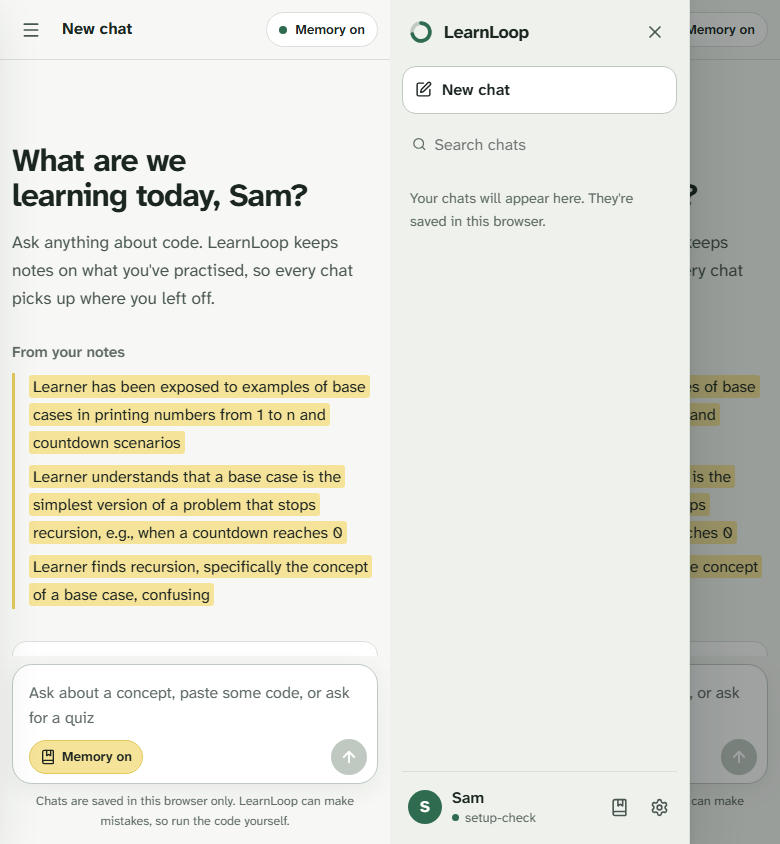
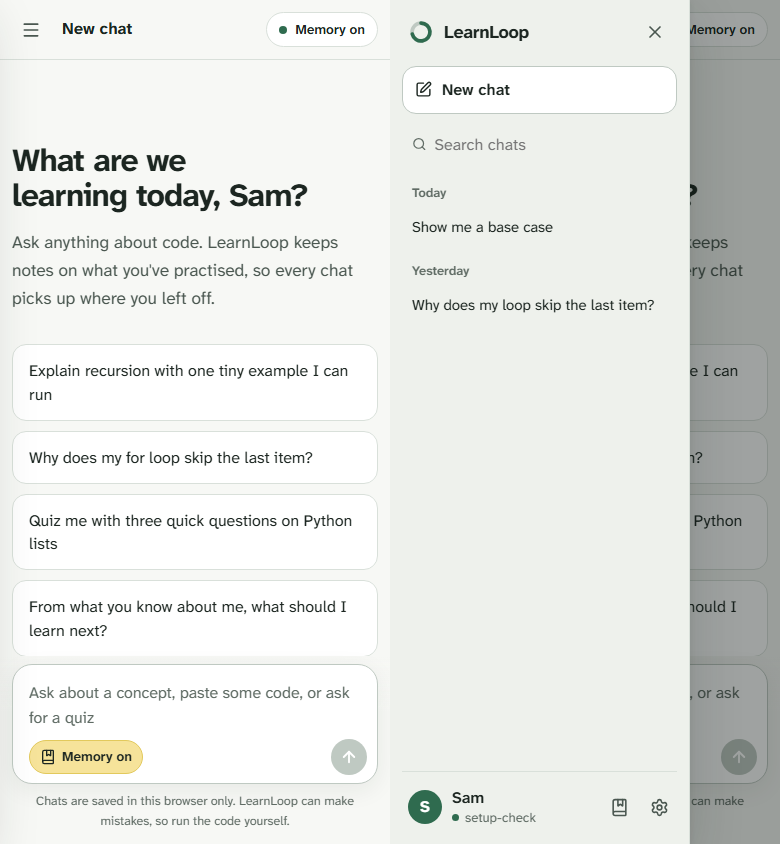
Remove notes from the welcome screen

diff --git a/frontend/src/components/ChatView.tsx b/frontend/src/components/ChatView.tsx
@@ -1,10 +1,9 @@
-import { useEffect, useRef, useState } from "react";
+import { useEffect, useRef } from "react";
 import type { RefObject } from "react";
 import { Menu, PanelLeftOpen, SquarePen } from "lucide-react";
-import { api } from "../lib/api";
 import { useAppState } from "../lib/AppState";
 import type { MemoryStatus } from "../lib/memoryStatus";
-import type { MemoryNote, Message } from "../lib/types";
+import type { Message } from "../lib/types";
 import { Composer } from "./Composer";
 import { EmptyState } from "./EmptyState";
 import { MessageItem } from "./MessageItem";
@@ -33,7 +32,6 @@ export function ChatView({
   const { settings } = state;
   const messages = activeConversation?.messages ?? [];
   const pendingReply = messages.find((m) => m.status === "pending");
-  const notes = useRecentNotes(settings.learnerId, messages.length === 0 && memory.tone === "on");
 
   return (
     <main className={styles.main}>
@@ -64,7 +62,7 @@ export function ChatView({
       {messages.length === 0 ? (
         <div className={styles.scroll}>
           <div className={styles.column}>
-            <EmptyState name={settings.name} notes={notes} onPick={send} />
+            <EmptyState name={settings.name} onPick={send} />
           </div>
         </div>
       ) : (
@@ -128,21 +126,4 @@ function MessageList({
       </div>
     </div>
   );
-}
-
-/** Loads a few remembered facts for the welcome screen. Silent on failure: it's a bonus, not a feature. */
-function useRecentNotes(learnerId: string, enabled: boolean): MemoryNote[] {
-  const [notes, setNotes] = useState<MemoryNote[]>([]);
-  useEffect(() => {
-    if (!enabled) return;
-    let cancelled = false;
-    api
-      .memories(learnerId)
-      .then((all) => !cancelled && setNotes(all.slice(0, 3)))
-      .catch(() => !cancelled && setNotes([]));
-    return () => {
-      cancelled = true;
-    };
-  }, [learnerId, enabled]);
-  return enabled ? notes : [];
 }

diff --git a/frontend/src/components/EmptyState.tsx b/frontend/src/components/EmptyState.tsx
@@ -1,4 +1,3 @@
-import type { MemoryNote } from "../lib/types";
 import styles from "./EmptyState.module.css";
 
 const STARTERS = [
@@ -10,12 +9,10 @@ const STARTERS = [
 
 interface Props {
   name: string;
-  /** A few things LearnLoop already remembers, shown so a new chat doesn't start from zero. */
-  notes: MemoryNote[];
   onPick: (prompt: string) => void;
 }
 
-export function EmptyState({ name, notes, onPick }: Props) {
+export function EmptyState({ name, onPick }: Props) {
   const firstName = name.trim().split(/\s+/)[0];
   return (
     <div className={styles.empty}>
@@ -26,21 +23,6 @@ export function EmptyState({ name, notes, onPick }: Props) {
         Ask anything about code. LearnLoop keeps notes on what you&apos;ve practised, so every chat picks up where you
         left off.
       </p>
-
-      {notes.length > 0 && (
-        <section className={styles.notes} aria-labelledby="recent-notes">
-          <h3 id="recent-notes" className={styles.notesTitle}>
-            From your notes
-          </h3>
-          <ul>
-            {notes.map((note, index) => (
-              <li key={index}>
-                <mark>{note.text}</mark>
-              </li>
-            ))}
-          </ul>
-        </section>
-      )}
 
       <ul className={styles.starters} aria-label="Ideas to start with">
         {STARTERS.map((prompt) => (

diff --git a/frontend/src/components/EmptyState.module.css b/frontend/src/components/EmptyState.module.css
@@ -22,37 +22,6 @@
   font-size: 1.08rem;
 }
 
-.notes {
-  margin-top: 28px;
-}
-
-.notesTitle {
-  margin: 0 0 8px;
-  color: var(--ink-3);
-  font-size: 0.95rem;
-  font-weight: 600;
-}
-
-.notes ul {
-  display: flex;
-  flex-direction: column;
-  gap: 6px;
-  margin: 0;
-  padding: 0 0 0 14px;
-  border-left: 3px solid var(--highlight-edge);
-  list-style: none;
-}
-
-.notes mark {
-  padding: 1px 4px;
-  border-radius: 3px;
-  background: var(--highlight);
-  color: var(--ink);
-  line-height: 1.75;
-  box-decoration-break: clone;
-  -webkit-box-decoration-break: clone;
-}
-
 .starters {
   display: grid;
   grid-template-columns: repeat(2, minmax(0, 1fr));

diff --git a/frontend/src/test/setup.ts b/frontend/src/test/setup.ts
@@ -3,8 +3,9 @@ import "@testing-library/jest-dom/vitest";
 import { afterEach } from "vitest";
 import { cleanup, configure } from "@testing-library/react";
 
-// The Markdown renderer is loaded on demand; on a cold first run that can take over the default 1s.
-configure({ asyncUtilTimeout: 5000 });
+// The Markdown renderer is loaded on demand. On a cold first run, with other test files running in
+// parallel, that can take several seconds, far over the default 1s.
+configure({ asyncUtilTimeout: 15000 });
 
 afterEach(() => {
   cleanup();

diff --git a/app/main.py b/app/main.py
@@ -38,6 +38,18 @@ logger = logging.getLogger("learnloop")
 STATIC_DIR = Path(__file__).parent / "static"
 
 
+class WebAppFiles(StaticFiles):
+    """The built web app's files. Those in assets/ have a content hash in their name (index-3fa9c1.js),
+    so a changed file always gets a new name and browsers may keep each one forever."""
+
+    async def get_response(self, path: str, scope) -> Response:
+        response = await super().get_response(path, scope)
+        # `path` uses the OS separator (assets\app.js on Windows), so compare with forward slashes.
+        if path.replace("\\", "/").startswith("assets/") and response.status_code == 200:
+            response.headers["Cache-Control"] = "public, max-age=31536000, immutable"
+        return response
+
+
 def present(memories: list[Memory]) -> list[MemoryOut]:
     """Memories as the web app shows them: readable text, each fact once, in the original order."""
     seen: set[str] = set()
@@ -179,14 +191,18 @@ def create_app(
             raise HTTPException(status_code=503, detail="Memory service unavailable") from exc
 
     # The web app. "/" is checked on every request, so a fresh `npm run build` shows up without a restart.
+    # "no-cache" makes the browser ask for the page every time (cheap, thanks to the ETag), so an update
+    # is visible on the next reload instead of the browser showing a saved old copy.
     @app.get("/", include_in_schema=False)
     async def web_app() -> Response:
         index = static_dir / "index.html"
-        return FileResponse(index) if index.is_file() else HTMLResponse(NOT_BUILT_PAGE)
+        page = FileResponse(index) if index.is_file() else HTMLResponse(NOT_BUILT_PAGE)
+        page.headers["Cache-Control"] = "no-cache"
+        return page
 
     # Its scripts, styles and icons. Mounted last, because a mount at "/" matches every path.
     static_dir.mkdir(parents=True, exist_ok=True)
-    app.mount("/", StaticFiles(directory=static_dir), name="web")
+    app.mount("/", WebAppFiles(directory=static_dir), name="web")
 
     return app
 

diff --git a/tests/test_api.py b/tests/test_api.py
@@ -115,6 +115,14 @@ def test_web_app_and_its_assets_are_served(client):
     assert script.status_code == 200
 
 
+def test_browsers_always_check_for_a_new_page_but_keep_hashed_assets(client):
+    page = client.get("/")
+    script = client.get("/assets/app.js")
+
+    assert page.headers["cache-control"] == "no-cache"
+    assert "immutable" in script.headers["cache-control"]
+
+
 def test_api_routes_still_win_over_the_web_app(client):
     res = client.get("/healthz")
 

diff --git a/docs/FRONTEND.md b/docs/FRONTEND.md
@@ -58,7 +58,7 @@ frontend/
     │   ├── MessageItem.tsx     One message: your bubble, or the tutor's reply with its notes
     │   ├── Markdown.tsx        Turns the reply's Markdown into headings, lists and code blocks
     │   ├── Composer.tsx        The message box: Enter to send, Stop, the memory switch
-    │   ├── EmptyState.tsx      The welcome screen with notes and starter questions
+    │   ├── EmptyState.tsx      The welcome screen with starter questions
     │   ├── SettingsDialog.tsx  The five settings tabs
     │   ├── MemoryDialog.tsx    "What LearnLoop remembers" and the progress report
     │   ├── Dialog.tsx          A pop-up window (built on the browser's <dialog>)

diff --git a/README.md b/README.md
@@ -73,7 +73,7 @@ service that can fail.
 **Learning**
 - Explanations with small runnable code examples, followed by a quick question to check understanding
 - A **progress report**, written from memory: your strengths, what you struggle with, and what to study next
-- A welcome screen that shows what LearnLoop already remembers, plus starter questions
+- A clean welcome screen with starter questions to get going
 
 **Memory**
 - Long-term memory for each learner, kept in its own Hindsight *bank* so learners never see each other's notes
